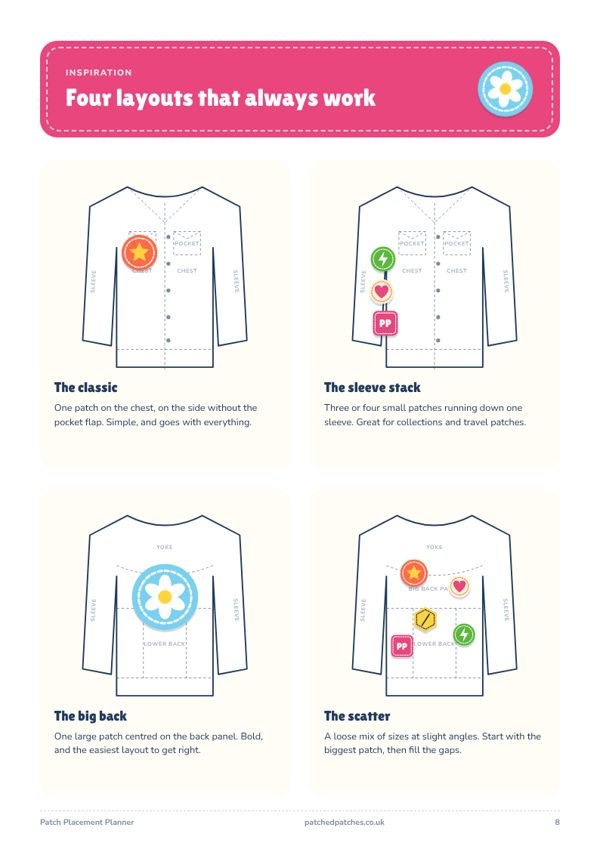
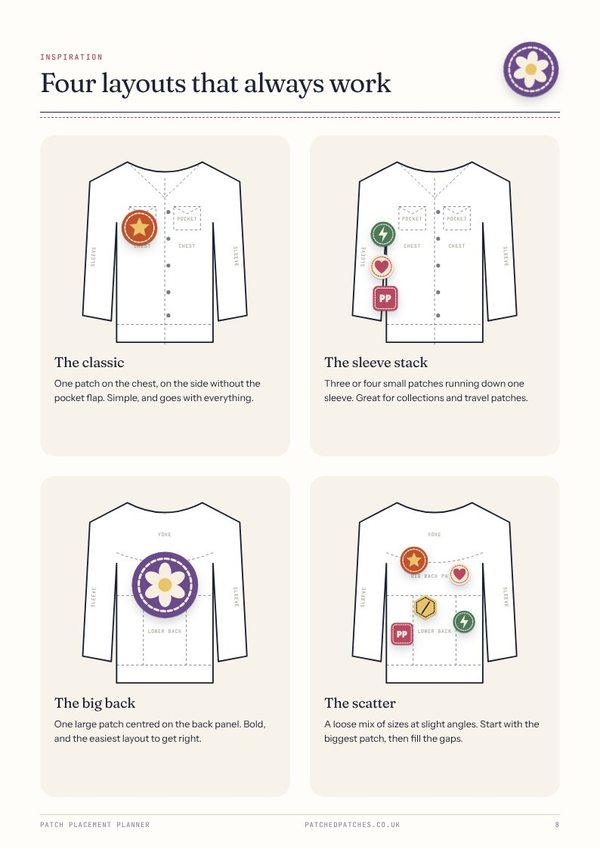
Restyle the Patch Placement Planner previews to match the new look
The printable planner was regenerated in the mending-journal style (calico
paper, indigo ink, red thread, Fraunces and Instrument Sans), so its
preview pages on the planner page, homepage and layout tool now match.

Claude-Session: https://claude.ai/code/session_01Q5MKLvjqnCDrSjYwnHioxt

diff --git a/content/pages/patch-planner.md b/content/pages/patch-planner.md
@@ -6,7 +6,7 @@ Plan where every patch goes before the iron comes out. The Patch Placement Plann
 
 [Get the planner](gumroad:planner)
 
-<div class="planner-pages"><img src="/img/planner/page-1.jpg" alt="Planner cover: patches pegged on a washing line" width="600" height="849" loading="lazy"><img src="/img/planner/page-4.jpg" alt="Denim jacket front template on a dotted grid" width="600" height="849" loading="lazy"><img src="/img/planner/page-8.jpg" alt="Four patch layout ideas for jackets" width="600" height="849" loading="lazy"><img src="/img/planner/page-11.jpg" alt="Cheat sheet: care label iron symbols and the best method for each fabric" width="600" height="849" loading="lazy"></div>
+<div class="planner-pages"><img src="/img/planner/page-1.jpg" alt="Planner cover: embroidered patches on a square of denim" width="600" height="849" loading="lazy"><img src="/img/planner/page-4.jpg" alt="Denim jacket front template on a dotted grid" width="600" height="849" loading="lazy"><img src="/img/planner/page-8.jpg" alt="Four patch layout ideas for jackets" width="600" height="849" loading="lazy"><img src="/img/planner/page-11.jpg" alt="Cheat sheet: care label iron symbols and the best method for each fabric" width="600" height="849" loading="lazy"></div>
 
 ## What's inside
 
